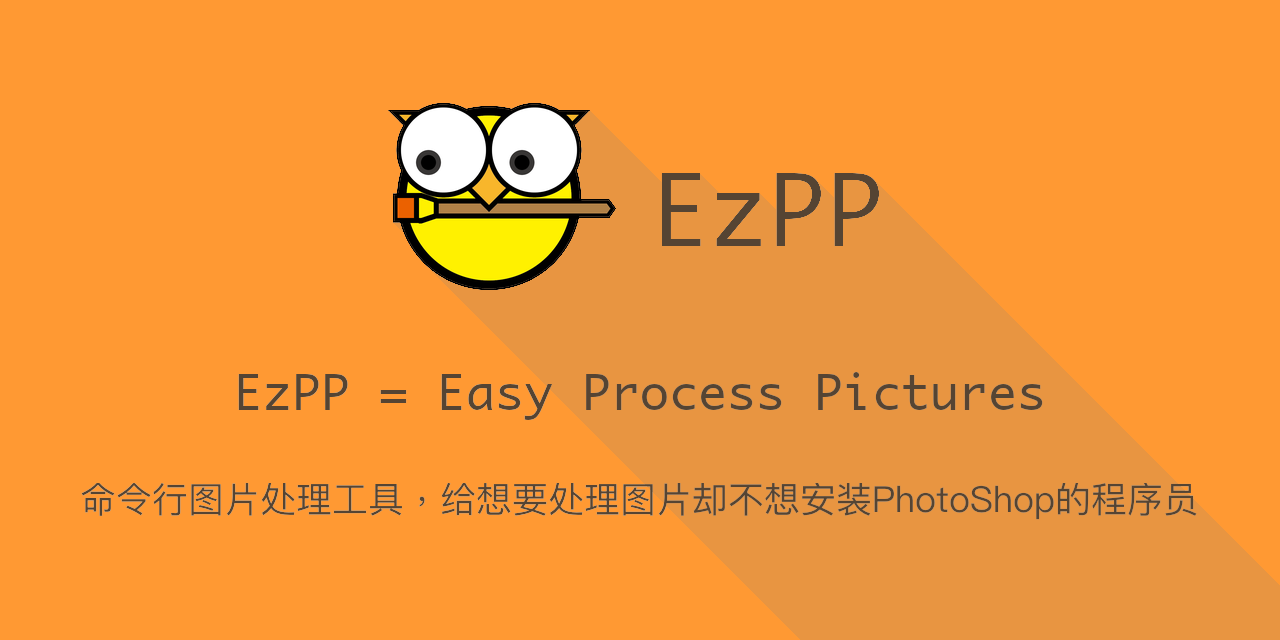
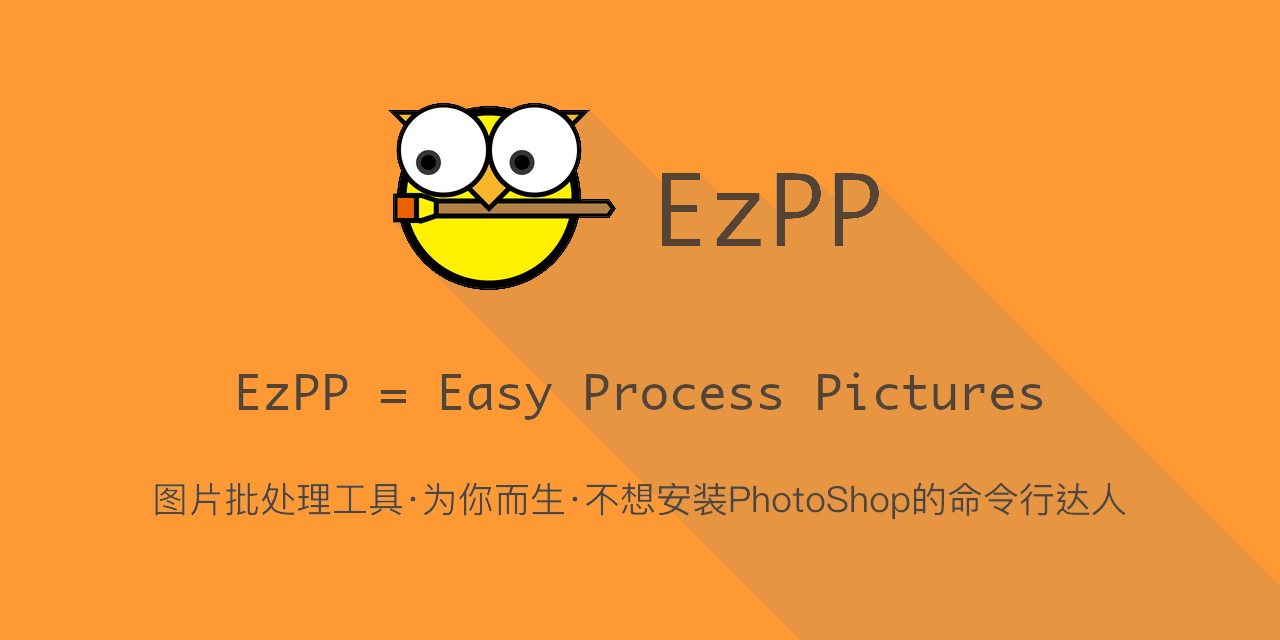
docs

Changed region(s): [[0.3125, 0.75, 0.9375, 0.8125], [0.0625, 0.75, 0.2188, 0.8125]]

diff --git a/README.CN.md b/README.CN.md
@@ -1,25 +1,37 @@
 
 ![](docs/ezpp_slogan.cn.png)
 
-# 安装
+[English Document](README.md)
+
+# 1. 安装
 
 ```bash
 pip3 install ezpp
 ```
 
-# EzPP能做什么？
+# 2. EzPP能做什么？
 
 功能名称|处理前|处理后|How to
 :---:|:---:|:---:|:---
-毛玻璃(Frosted)|![A icon before frosted]( docs/lego_mc.jpg)|![A icon after defult frosted](docs/lego_mc_frosted_default.jpg)|[How to Frosted](docs/subcmd_04_frosted.md)
-变色(ReColor)|![picture before recolor](docs/logo_256x256.png)|![picture after recolor](docs/logo_blue.png)|[How to ReColor](docs/subcmd_01_recolor.md)
-调整大小(ReSize)|![A icon before recolor](docs/logo_256x256.png)|![A icon after resize](docs/logo_64.png)|![picture after recolor](docs/logo_blue.png)|[How to ReCReSizeolor](docs/subcmd_02_resize.cn.md)
-转格式(ReFormat)|lego_mc_l.jpg(203k)|lego_mc_l.webp(109k)|[How to ReFormat](docs/subcmd_03_reformat.cn.md)
-文本变图标(Text2Icon)| "EzPP"|![Simplest call of text2icon](docs/ezpp_t_128.png)|[How to Text2Icon](docs/subcmd_05_text2icon.cn.md)
-加阴影(Shadow)|![A clean background icon](docs/ezpp_t_128.png)|![Shadow added on clean background](docs/ezpp_t_128_shadow.png)|[How to Shadow](docs/subcmd_06_shadow.cn.md)
-布局渲染(Layout)|ezpp_slogan.yaml|![slogan](docs/ezpp_slogan.cn_256x128.png)|[How to Render](examples/render/examples_render.cn.md)
+毛玻璃(Frosted)|![A icon before frosted]( docs/lego_mc.jpg)|![A icon after defult frosted](docs/lego_mc_frosted_default.jpg)|[怎样做毛玻璃➡](docs/subcmd_04_frosted.md)
+变色(ReColor)|![picture before recolor](docs/logo_256x256.png)|![picture after recolor](docs/logo_blue.png)|[怎样改色➡](docs/subcmd_01_recolor.md)
+调整大小(ReSize)|![A icon before recolor](docs/logo_256x256.png)|![A icon after resize](docs/logo_64.png)|[怎样改大小➡](docs/subcmd_02_resize.cn.md)
+转格式(ReFormat)|lego_mc_l.jpg(203k)|lego_mc_l.webp(109k)|[怎样改格式➡](docs/subcmd_03_reformat.cn.md)
+文本变图标(Text2Icon)| "EzPP"|![Simplest call of text2icon](docs/ezpp_t_128.png)|[文本怎样变图标➡](docs/subcmd_05_text2icon.cn.md)
+加阴影(Shadow)|![A clean background icon](docs/ezpp_t_128.png)|![Shadow added on clean background](docs/ezpp_t_128_shadow.png)|[怎样加阴影➡](docs/subcmd_06_shadow.cn.md)
+布局渲染(Layout)|ezpp_slogan.yaml|![slogan](docs/ezpp_slogan.cn_256x128.png)|[怎样渲染布局](examples/render/examples_render.cn.md)
 
-# 常用参数
+# 3. 常用参数
+
+## 输入文件
+### 用 '-i' 或 '--infile' 提供输入文件.
+
+只有 text2icon 这个子命令不支持也不需要 -i
+
+## 输出文件
+### 使用 '-o' 或 '--outfile'提供输出文件.
+                            
+如果你同时提供了'-p' 或 '--preview' 标志。输出文件将会被忽略
 
 
 ## 递归处理图片
@@ -54,17 +66,22 @@ render |no
 
 ------ 
 # 待开发功能
-## 1. 在给图片换色的时候，忽略某些颜色.
+
+- [ ] 1. 在给图片换色的时候，忽略某些颜色.
 
 Recolor with -i flag
 
-## 2. 给一个目录下所有的图片 换色/改大小
+- [Done] 2. 给一个目录下所有的图片 换色/改大小 
 
 
-## 3. 本地化帮助文档
+- [ ] 3. 本地化帮助文档
 
 https://www.cnblogs.com/ldlchina/p/4708442.html
 
 https://docs.python.org/3/library/gettext.html
 
-## 4. 在转化完图片后打开预览查看结果，并且能通过参数控制是否显示预览。
+- [Done] 4. 在转化完图片后打开预览查看结果，并且能通过参数控制是否显示预览。
+
+- [Done] 5. 布局渲染
+- [ ] 6. 以行和列的形式布局
+- [ ] 7. Gif 动画

diff --git a/README.md b/README.md
@@ -13,15 +13,25 @@ pip3 install ezpp
 
 What |Before|After|How to
 :---:|:---:|:---:|:---
-Frosted|![A icon before frosted]( docs/lego_mc.jpg)|![A icon after defult frosted](docs/lego_mc_frosted_default.jpg)|[How to Frosted](docs/subcmd_04_frosted.md)
-ReColor|![picture before recolor](docs/logo_256x256.png)|![picture after recolor](docs/logo_blue.png)|[How to ReColor](docs/subcmd_01_recolor.md)
-ReSize|![A icon before recolor](docs/logo_256x256.png)|![A icon after recolor](docs/logo_64.png)|[How to ReSize](docs/subcmd_02_resize.md)
-ReFormat|lego_mc_l.jpg(203k)|lego_mc_l.webp(109k)|[How to ReFormat](docs/subcmd_03_reformat.md)
-Text2Icon| "EzPP"|![Simplest call of text2icon](docs/ezpp_t_128.png)|[How to Text2Icon](docs/subcmd_05_text2icon.md)
-Shadow|![A clean background icon](docs/ezpp_t_128.png)|![Shadow added on clean background](docs/ezpp_t_128_shadow.png)|[How to Shadow](docs/subcmd_06_shadow.md)
-Render|ezpp_slogan.yaml|![slogan](docs/ezpp_slogan_256x128.png)|[How to Render](examples/render/examples_render.md)
+Frosted|![A icon before frosted]( docs/lego_mc.jpg)|![A icon after defult frosted](docs/lego_mc_frosted_default.jpg)|[How to Frosted➡](docs/subcmd_04_frosted.md)
+ReColor|![picture before recolor](docs/logo_256x256.png)|![picture after recolor](docs/logo_blue.png)|[How to ReColor➡](docs/subcmd_01_recolor.md)
+ReSize|![A icon before recolor](docs/logo_256x256.png)|![A icon after recolor](docs/logo_64.png)|[How to ReSize➡](docs/subcmd_02_resize.md)
+ReFormat|lego_mc_l.jpg(203k)|lego_mc_l.webp(109k)|[How to ReFormat➡](docs/subcmd_03_reformat.md)
+Text2Icon| "EzPP"|![Simplest call of text2icon](docs/ezpp_t_128.png)|[How to Text2Icon➡](docs/subcmd_05_text2icon.md)
+Shadow|![A clean background icon](docs/ezpp_t_128.png)|![Shadow added on clean background](docs/ezpp_t_128_shadow.png)|[How to Shadow➡](docs/subcmd_06_shadow.md)
+Render|ezpp_slogan.yaml|![slogan](docs/ezpp_slogan_256x128.png)|[How to Render➡](examples/render/examples_render.md)
 
 # 3. Common params
+
+## Input file
+### Use '-i' or '--infile' provide a input file.
+
+Only text2icon sub command not support -i
+
+## Output file
+### Use '-o' or '--outfile' provide a output file.
+                            
+If you provide a '-p' or '--preview' flag . Output file will be ignored.
 
 ## Recursive for subcommands
 
@@ -69,7 +79,7 @@ https://www.cnblogs.com/ldlchina/p/4708442.html
 
 https://docs.python.org/3/library/gettext.html
 
-- [ ] 4. Control whether to  show preview after tranform picture.
+- [Done] 4. Control whether to  show preview after tranform picture.
 
 - [Done] 5. Layout support postion.
 - [ ] 6. Layout support Row and Column flex mode.
